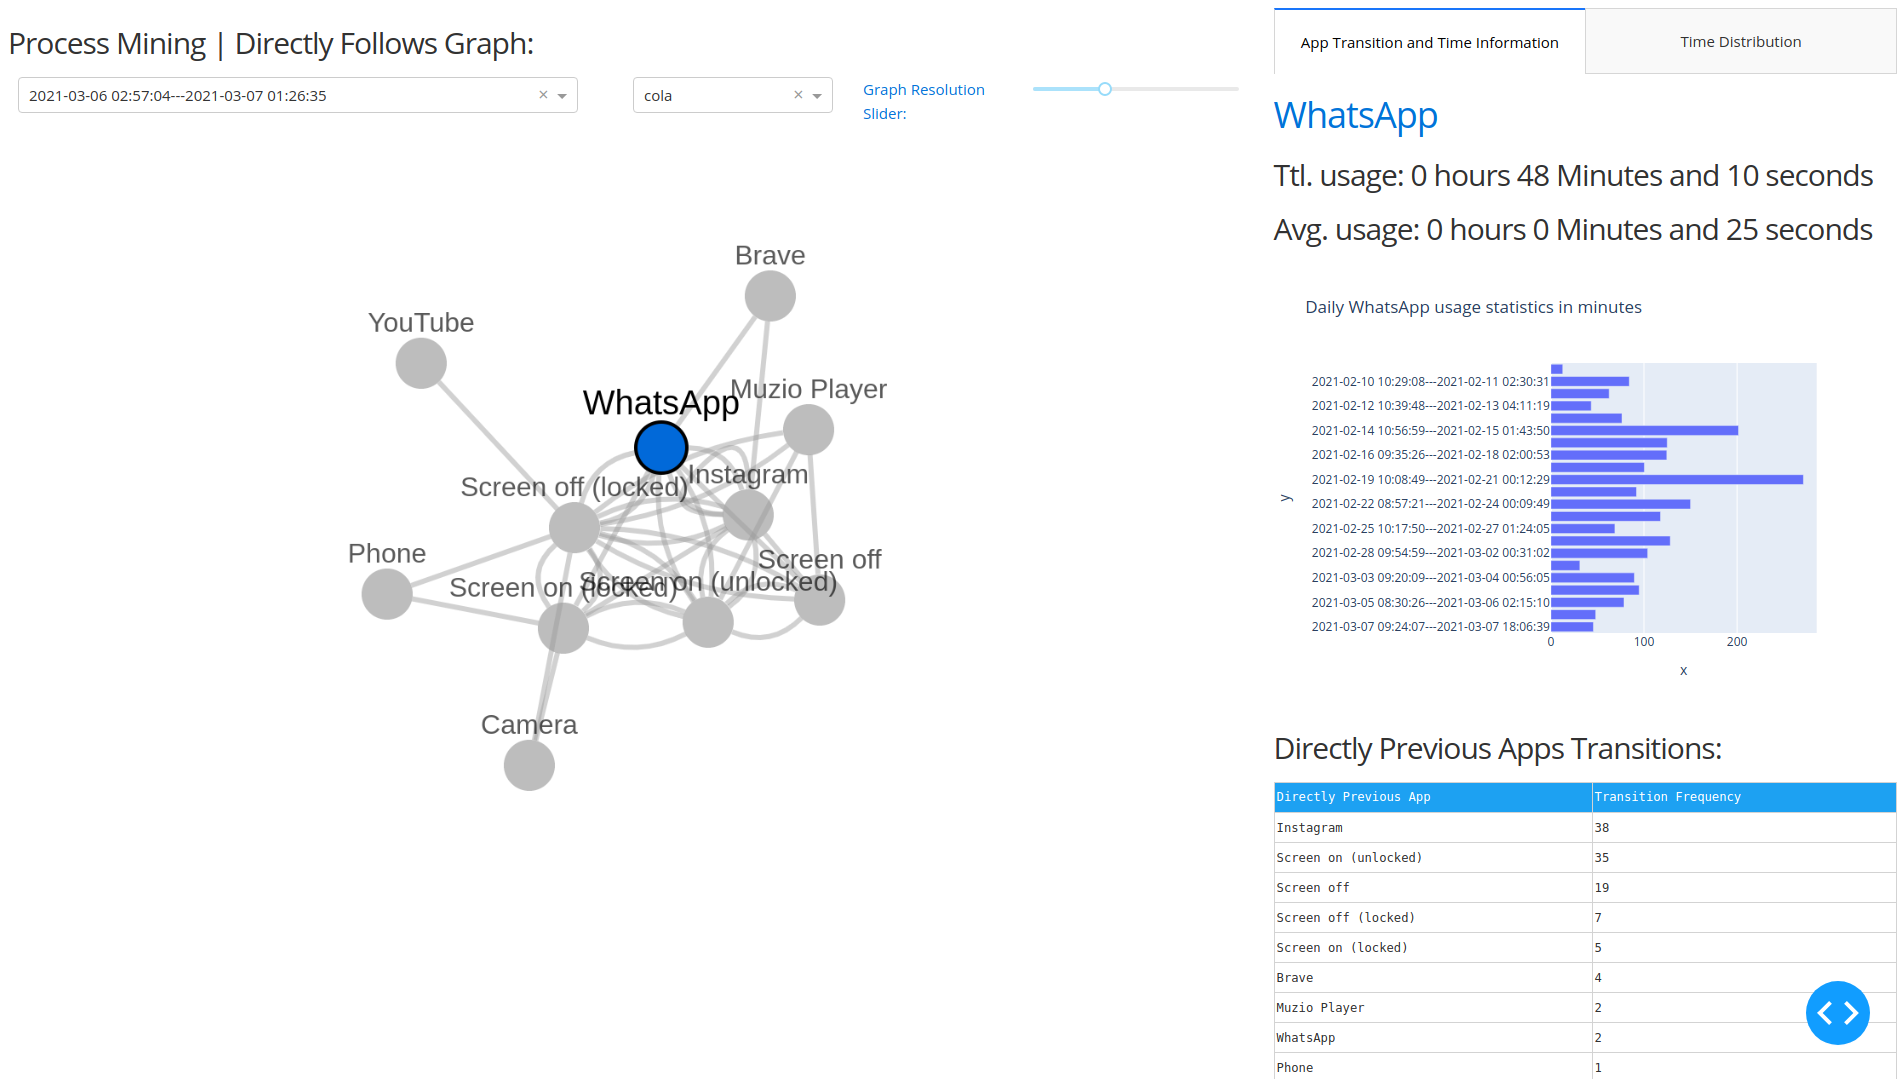
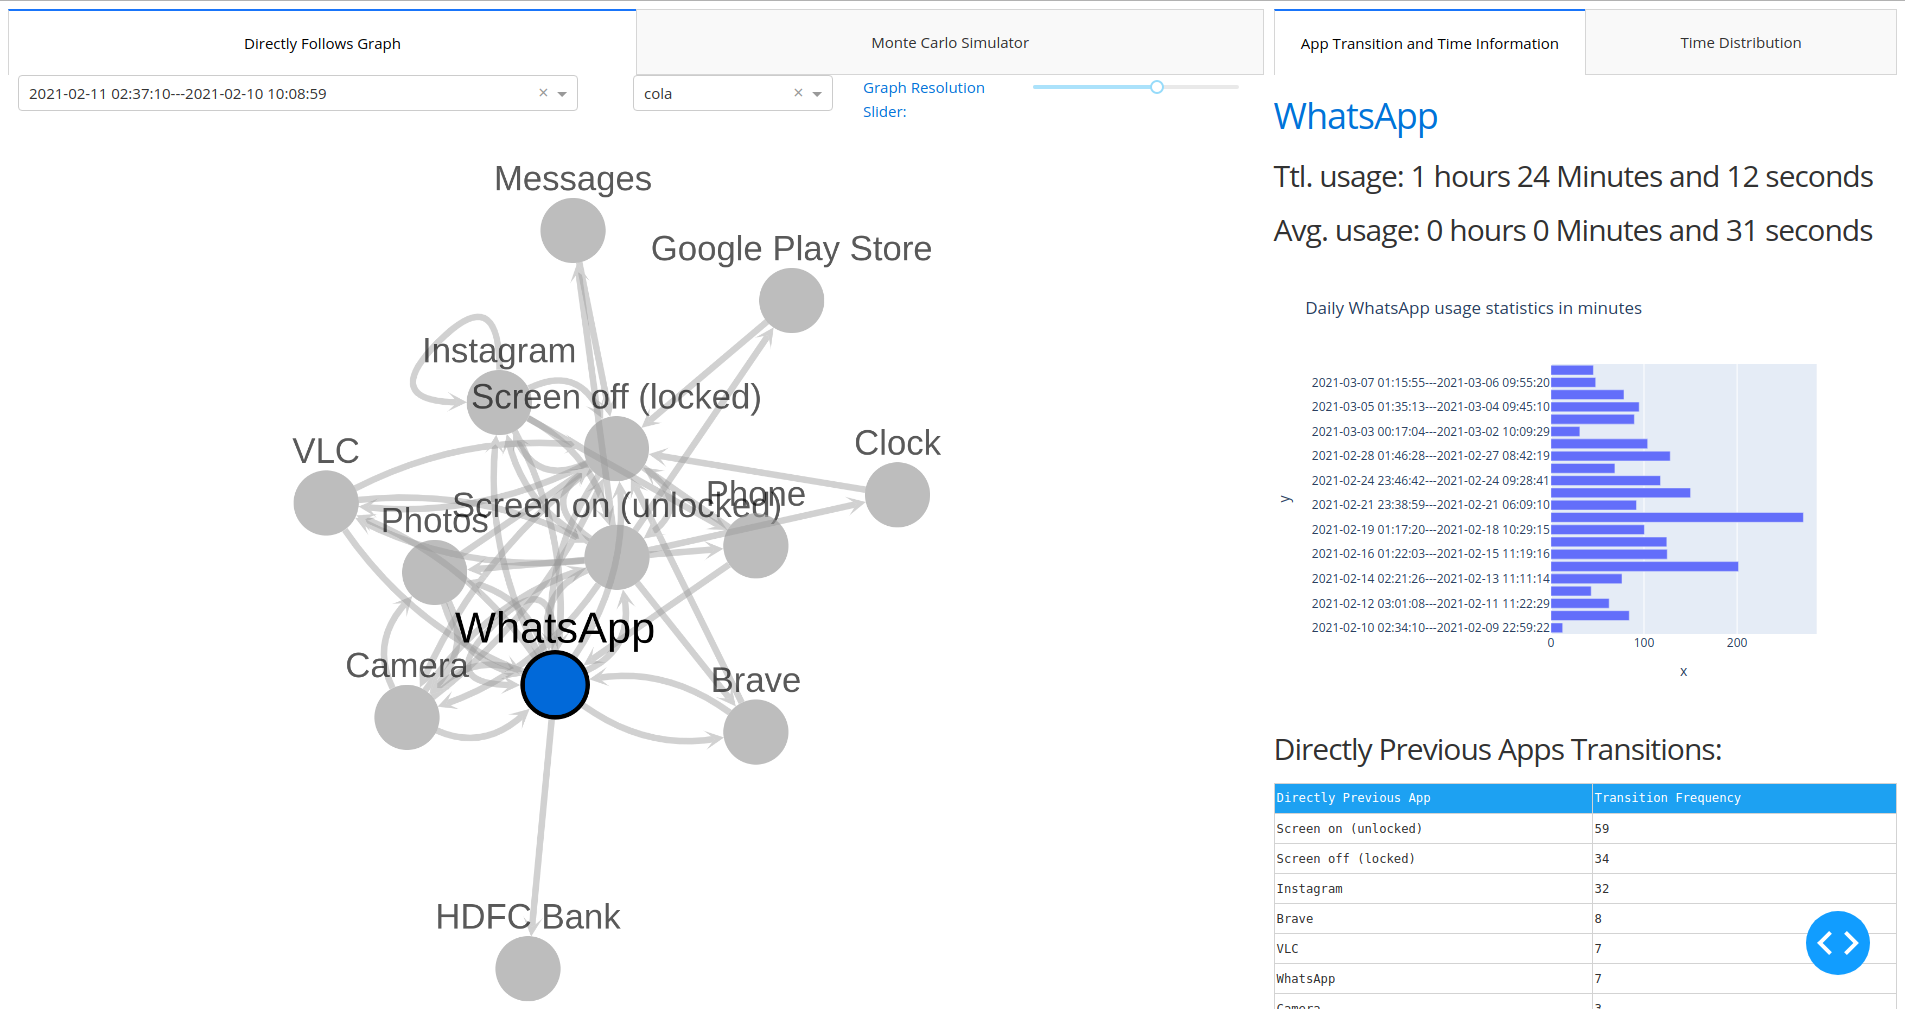
Monte Carlo Path Simulation

diff --git a/app.py b/app.py
@@ -13,6 +13,7 @@ import dash_local_data
 import dash_dfg
 import dash_utils
 import configparser
+import monte_carol_simulation
 
 
 # Load Log data
@@ -36,50 +37,135 @@ styles = dash_utils.STYLES
 
 
 app.layout = html.Div([
+    #Left Side
     html.Div(className='eight columns', children=[
         #Left Side
-        html.H3("Process Mining | Directly Follows Graph:"),
-        html.Div(children=[
-            dcc.Dropdown(
-                    id='number-dropdown',
-                    options=dropdown_options,
-                    value='All',
-                    style={'width': '560px', 'margin-left':'5px'},
-                ),
-            dcc.Dropdown(
-                    id='layout-dropdown',
-                    options=get_layout_dropdown_options(),
-                    value='cola',
-                    style={'width': '200px', 'margin-left':'30px'},
-                ),                
+        dcc.Tabs(id='tabs_left', children=[
+            dcc.Tab(label='Directly Follows Graph', children=[
+                html.Div(children=[
+                    dcc.Dropdown(
+                            id='number-dropdown',
+                            options=dropdown_options,
+                            value='All',
+                            style={'width': '560px', 'margin-left':'5px'},
+                        ),
+                    dcc.Dropdown(
+                            id='layout-dropdown',
+                            options=get_layout_dropdown_options(),
+                            value='cola',
+                            style={'width': '200px', 'margin-left':'30px'},
+                        ),                
 
-            html.P(
-                "Graph Resolution Slider:", 
-                style={'margin-left':'60px', "color": "#0074D9"}
-                ),
-            html.Div(children=[
-                dcc.Slider(
-                    id='res-slider',
-                    min=0,
-                    max=100,
-                    step=5,
-                    value=60,
-                )], 
-                style={'width': '300px', 'margin-top': '5px'}
-            ),
-        ], style=dict(display='flex')),
+                    html.P(
+                        "Graph Resolution Slider:", 
+                        style={'margin-left':'60px', "color": "#0074D9"}
+                        ),
+                    html.Div(children=[
+                        dcc.Slider(
+                            id='res-slider',
+                            min=0,
+                            max=100,
+                            step=5,
+                            value=60,
+                        )], 
+                        style={'width': '300px', 'margin-top': '5px'}
+                    ),
+                ], style=dict(display='flex')),
 
-        cyto.Cytoscape(
-            id='cytoscape',
-            elements=dash_data,
-            layout={'name': 'cola'},
-            style={'width': '100%', 'height': '95vh'},
-            stylesheet = default_stylesheet,    
-        ),
+                cyto.Cytoscape(
+                    id='cytoscape',
+                    elements=dash_data,
+                    layout={'name': 'cola'},
+                    style={'width': '100%', 'height': '95vh'},
+                    stylesheet = default_stylesheet,    
+                ),
+            ]),
+
+            dcc.Tab(label='Monte Carlo Simulator', children=[
+                html.Div(children=[
+                    html.P(
+                        "#MC Simulations: (Note: Time Complexity: O(N), be careful.)",
+                        style={'margin-top':'5px', 'margin-right':'20px', "color": "#0074D9"}
+                    ),
+                    dcc.Input(
+                        id="mc_n",
+                        type="text",
+                        value="1000",
+                    ),
+                    html.P(
+                        "How irrational are you?:", 
+                        style={'margin-left':'60px', "color": "#0074D9"}
+                        ),
+                    html.Div(children=[
+                        dcc.Slider(
+                            id='irr-slider',
+                            min=0,
+                            max=1,
+                            step=0.01,
+                            value=0.1,
+                        )], 
+                        style={'width': '300px', 'margin-top': '5px'}
+                    ), 
+                ], style=dict(display='flex')),
+
+                html.Div(children=[
+                    
+                    html.P(
+                        "Path Starting app: ",
+                        style={'margin-top':'5px', 'margin-right':'20px', "color": "#0074D9"}
+                    ),
+
+                    dcc.Input(
+                        id="start_app",
+                        type="text",
+                        value="Screen on (unlocked)",
+                    ),
+                    
+                    html.P(
+                        "Path Ending app: ",
+                        style={'margin-top':'5px', 'margin-left':'20px', 'margin-right':'20px', "color": "#0074D9"}
+                    ),
+
+                    dcc.Input(
+                        id="end_app",
+                        type="text",
+                        value="Screen off (locked)",
+                    ),                    
+
+                ], style=dict(display='flex')),                
+                
+                dash_table.DataTable(             
+                    id='mc_table',
+                    columns=[
+                        {'name': 'Path','id': 'mc_path',},
+                        {'name': 'Confidence','id': 'mc_confidence',}
+                    ],
+                    data=[{"mc_path": "Loading...", "mc_confidence": 1}],
+                    style_cell_conditional=[
+                        {'if': {'column_id': 'mc_path'},
+                        'width': '90%'},
+                        {'if': {'column_id': 'mc_confidence'},
+                        'width': '10%'},
+                    ],  
+                    
+                    style_cell={
+                        'whiteSpace': 'normal',
+                        'height': 'auto',
+                        'textAlign': 'left',
+                    },
+                    style_data={
+                            'whiteSpace': 'normal',
+                            'height': 'auto',
+                    },
+                    style_header=dict(color="#fff", backgroundColor="#1DA1F2"),
+                ),  
+            ]),
+        ]),
     ]),
+
     #Right Side
     html.Div(className='four columns', children=[
-        dcc.Tabs(id='tabs', children=[
+        dcc.Tabs(id='tabs_right', children=[
             dcc.Tab(label='App Transition and Time Information', children=[
             
                 html.Div(id='local_avg_time', children=[
@@ -170,5 +256,22 @@ def update_time_dist_graph(n, options):
 def update_local_data(data, n):
     return dash_local_data.update_local_data(df, data, n)
 
+@app.callback([
+        Output('mc_table', 'data'),
+    ],
+    [
+        Input('mc_n', 'value'),
+        Input('irr-slider', 'value'),
+        Input('start_app', 'value'),
+        Input('end_app', 'value'),
+    ])
+def update_mc_paths(n, irr, start, end):
+    data = monte_carol_simulation.get_mc_paths(
+        f, int(n), 
+        float(irr), start, end
+        )
+    return data
+
 if __name__ == "__main__":
-    app.run_server()
+    DEBUG = False
+    app.run_server(debug=DEBUG)

diff --git a/monte_carol_simulation.py b/monte_carol_simulation.py
@@ -1,0 +1,101 @@
+import pandas as pd
+import numpy as np
+import tqdm
+from pm import *
+
+
+class MyBehaviourSimulator():
+    def __init__(self, f, max_steps = 100, 
+                 start_app="Screen on (unlocked)", 
+                 end_app="Screen off (locked)"
+                ):
+        self.f = f
+        self.max_steps = max_steps
+        self.transitions = self.get_transitions()
+        self.START = start_app
+        self.END = end_app
+        self.current_app = None
+        self.i = None
+        self.done = False
+
+    
+    def get_transitions(self):
+        df = pd.read_csv(self.f)
+        df = df.iloc[::-1].iloc[4:, :]
+        df.columns = ["app_name", "date", "time", "duration"]
+        df['next_app'] = df.app_name.shift(-1)
+        transitions = {}
+        for app in df.next_app.unique():
+            val_counts = df[df.app_name == app].next_app.value_counts()
+            transitions[app] = val_counts/val_counts.sum()        
+        return transitions
+    
+    def reset(self):
+        self.i = 0
+        self.current_app = self.START
+        self.done = False
+        return self.current_app, self.done
+    
+    def next_app(self, app, rf):
+        t = self.transitions[app]
+        
+        if rf is not None:
+            flip = np.random.rand()
+            if flip <= rf:
+                c = np.random.choice(t.index)
+            else:
+                c = np.random.choice(t.index, p=t.values)
+            return c
+        
+        return np.random.choice(t.index, p=t.values)
+    
+    def step(self, rf=None):
+        if self.i >= self.max_steps:
+            self.done = True
+            return None, self.done
+        
+        self.current_app = self.next_app(self.current_app, rf)
+        if self.current_app == self.END:
+            self.done = True
+        return self.current_app, self.done
+
+
+
+def monte_carlo_sim(f, start, end, N=1000, rf=None):
+    def append(path, app):
+        return path + " -> " + app
+    
+    paths = []
+    env = MyBehaviourSimulator(f, start_app=start, end_app=end)
+    for _ in tqdm.tqdm(range(N)):
+        cur_app, done = env.reset()
+        path = cur_app
+        while True:
+            cur_app, done = env.step(rf)
+            path = append(path, cur_app)
+            if done:
+                paths.append(path)
+                break
+    return paths
+
+def df_to_dash(x, l=100):
+    table_data = []
+    for path, conf in zip(x.paths.values[:l], x.confidence.values[:l]):
+        table_data.append(
+            {"mc_path": path, "mc_confidence": conf}
+        ) 
+    return [table_data]
+
+
+def update_mc_paths(paths, limit=100):
+    l1 = len(paths)
+    l2 = len(list(set(paths)))
+    u_paths, counts = np.unique(paths, return_counts=True)
+    df = pd.DataFrame({"paths": u_paths, "counts": counts})
+    df = df.sort_values(by=['counts'], ascending=False)
+    df["confidence"] = df.counts.apply(lambda x: x/df.counts.sum())
+    return df_to_dash(df, limit) 
+
+def get_mc_paths(f, n, irr, start, end):
+    paths = monte_carlo_sim(f, start, end, n, irr)  
+    return update_mc_paths(paths)    

diff --git a/README.md b/README.md
@@ -18,6 +18,15 @@ Process Mining is "Mining" actionable information from event logs. One such acti
 - Resolution of `0` will display only the maximum frequency edges while the resolution of `100` will display all edges.
 - Note: Nodes with no edges are automatically removed.
 
+## Monte Carlo Simulator:
+- Create a directed graph for transitions between apps with edge weight as probabilities derrived using past data.
+- Choose a starting node (`N_S`) (`Screen on (unlocked)` by default), Ending node (`N_E`) (`Screen off (locked)` by default) and number of monte carlo simulations (`n`).
+- Starting from `N_S` probabilistically traverse the graph until `N_E` is reached or 100 hops done.
+- Repeat above for `n` times
+- Print out the paths with their monte carlo path confidence levels
+- Fun: `How irrational are you?:` slider varies from 0 to 1 and determines how often must the transitions be made completely randomly as opposed to based on probabilities computed using past behavioral data.
+- See `monte_carlo_simulation.py` for more details.
+
 # How?
 1. Install `requirements.txt` using pip
 2. Modify the logfile location in `config.ini`
